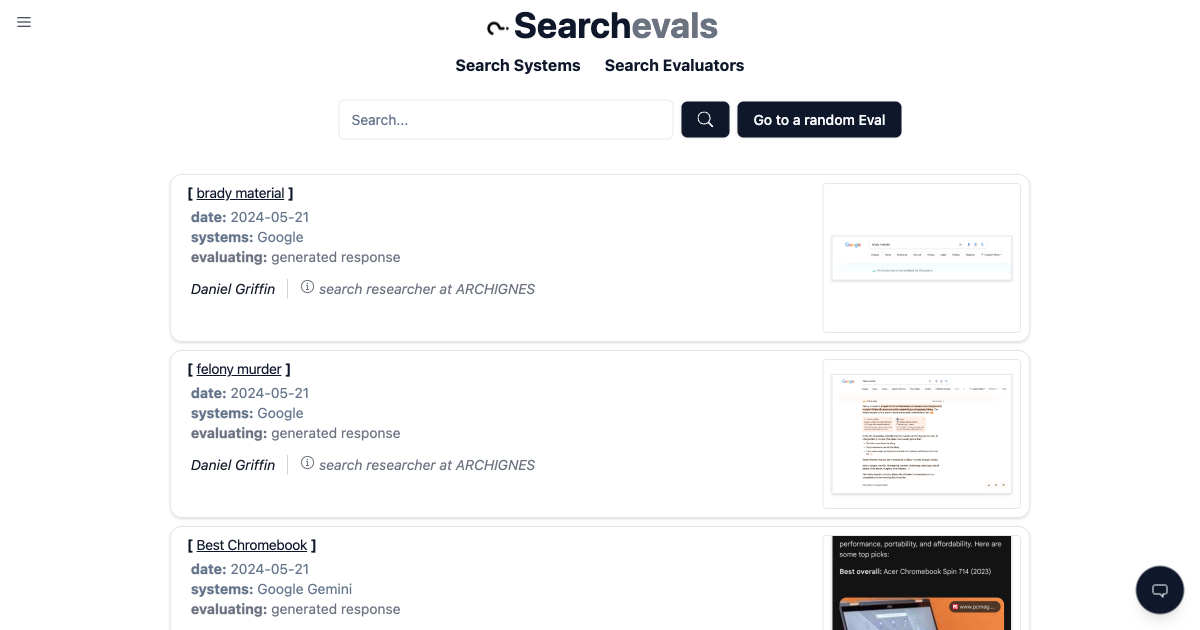
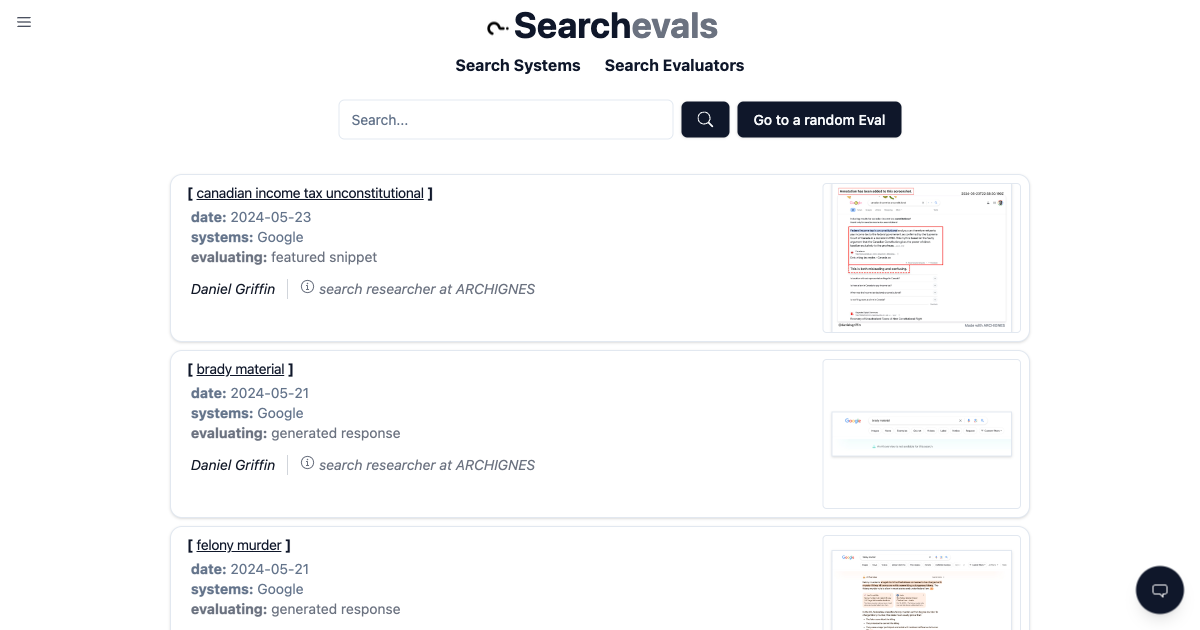
add eval, add updates to EvalComparisonChecks for multiple queries and human friendly time differences.

diff --git a/src/components/EvalComparisonChecks.tsx b/src/components/EvalComparisonChecks.tsx
@@ -6,7 +6,7 @@ import DiffMatchPatch from 'diff-match-patch';
 
 
 export const CheckTemporalDifference: React.FC<{ evalItemId: string; currentEvaluation: string }> = ({ evalItemId, currentEvaluation }) => {
-  const { data } = useContext(DataContext);
+  const { data, systems } = useContext(DataContext);
   const currentEvalItem = data ? data.find(evalItem => evalItem.id === currentEvaluation) : null;
   const followingEvalItem = data ? data.find(evalItem => evalItem.id === evalItemId) : null;
 
@@ -25,21 +25,56 @@ export const CheckTemporalDifference: React.FC<{ evalItemId: string; currentEval
       const currentTimestamp = extractTimestamp(currentStatusId);
       const followingTimestamp = extractTimestamp(followingStatusId);
       const timeDifference = currentTimestamp.getTime() - followingTimestamp.getTime();
-      const hoursDifference = Math.floor(timeDifference / (1000 * 60 * 60));
-      const minutesDifference = Math.floor((timeDifference % (1000 * 60 * 60)) / (1000 * 60));
-      const humanFriendlyDifference = `${hoursDifference} hours and ${minutesDifference} minutes`;
-      if (hoursDifference === 0) {
-        return (
-          <div className="flex justify-center w-full text-xs items-center text-info">
-            <InfoCircledIcon className="text-grey-500" />
-            <span className="ml-1 text-grey-500">Temporal difference: {minutesDifference} minutes</span>
-          </div>
-        );
+
+      const minutes = Math.floor(timeDifference / (1000 * 60));
+      const hours = Math.floor(minutes / 60);
+      const days = Math.floor(hours / 24);
+      const weeks = Math.floor(days / 7);
+      const months = Math.floor(days / 30);
+      const years = Math.floor(days / 365);
+
+      let humanFriendlyDifference = '';
+      if (years > 0) {
+        humanFriendlyDifference = `${years} year${years > 1 ? 's' : ''} and ${months % 12} month${months > 1 ? 's' : ''}`;
+      } else if (months > 0) {
+        humanFriendlyDifference = `${months} month${months > 1 ? 's' : ''} and ${weeks % 4} week${weeks > 1 ? 's' : ''}`;
+      } else if (weeks > 0) {
+        humanFriendlyDifference = `${weeks} week${weeks > 1 ? 's' : ''} and ${days % 7} day${days > 1 ? 's' : ''}`;
+      } else if (days > 0) {
+        humanFriendlyDifference = `${days} day${days > 1 ? 's' : ''} and ${hours % 24} hour${hours > 1 ? 's' : ''}`;
+      } else if (hours > 0) {
+        humanFriendlyDifference = `${hours} hour${hours > 1 ? 's' : ''} and ${minutes % 60} minute${minutes > 1 ? 's' : ''}`;
+      } else {
+        humanFriendlyDifference = `${minutes} minute${minutes > 1 ? 's' : ''}`;
       }
+
+      const exactDifference = `${years} year${years !== 1 ? 's' : ''}, ${months % 12} month${months % 12 !== 1 ? 's' : ''}, ${weeks % 4} week${weeks % 4 !== 1 ? 's' : ''}, ${days % 7} day${days % 7 !== 1 ? 's' : ''}, ${hours % 24} hour${hours % 24 !== 1 ? 's' : ''}, ${minutes % 60} minute${minutes % 60 !== 1 ? 's' : ''}`;
+
+      const combinedSystems = currentEvalItem.systems.map((system: any) => system.name).concat(followingEvalItem.systems.map((system: any) => system.name));
+      const randomSystem = combinedSystems[Math.floor(Math.random() * combinedSystems.length)];
+      const systemData = systems.find(
+        (system: any) => system.name === randomSystem
+      );
+      const systemSearchLink = systemData?.search_link || `https://www.google.com/search?q=`;
+      // create human friendly time stamps in dates and hours
+      let currentHumanFriendlyTimestamp = '';
+      let followingHumanFriendlyTimestamp = '';
+      if (weeks > 0) {
+        currentHumanFriendlyTimestamp = currentTimestamp.toLocaleDateString();
+        followingHumanFriendlyTimestamp = followingTimestamp.toLocaleDateString();
+      } else {
+        currentHumanFriendlyTimestamp = currentTimestamp.toLocaleString();
+        followingHumanFriendlyTimestamp = followingTimestamp.toLocaleString();
+      }
+      
+      const timeDifferenceQuery = `${systemSearchLink}what+is+the+time+difference+between+${followingHumanFriendlyTimestamp}+and+${currentHumanFriendlyTimestamp}`;
+
       return (
         <div className="flex justify-center w-full text-xs items-center text-info">
           <InfoCircledIcon className="text-grey-500" />
-          <span className="ml-1 text-grey-500">Temporal difference: {humanFriendlyDifference}</span>
+          <a href={timeDifferenceQuery} className="ml-1 text-grey-500" title={exactDifference}>
+            Temporal difference: {humanFriendlyDifference}
+          </a>
         </div>
       );
     }
@@ -56,6 +91,7 @@ export const CheckQueryConsistency: React.FC<{ evalItemId: string; currentEvalua
 
   const currentQuery = currentEvalItem.query;
   const followingQuery = followingEvalItem.query;
+  
 
   var dmp = new DiffMatchPatch();
   var diff = dmp.diff_main(currentQuery, followingQuery);
@@ -71,6 +107,40 @@ export const CheckQueryConsistency: React.FC<{ evalItemId: string; currentEvalua
   }
 
   if (currentQuery !== followingQuery) {
+    const collectQueries = (item: any): string[] => {
+      const queries: string[] = [];
+      const findQueries = (obj: any) => {
+        for (const key in obj) {
+          if (typeof obj[key] === 'object' && obj[key] !== null) {
+            findQueries(obj[key]);
+          } else if (key === 'query') {
+            queries.push(obj[key]);
+          }
+        }
+      };
+      findQueries(item);
+      return queries;
+    };
+
+    const followingQueries = collectQueries(followingEvalItem);
+    if (followingQueries.length > 1) {
+      const currentQueries = collectQueries(currentEvalItem);
+      if (followingQueries.some(fq => currentQueries.includes(fq))) {
+        return (
+          <>
+            <div className="flex justify-center text-gray-500 w-full text-xs items-center text-warning">
+              <InfoCircledIcon  />
+              <span className="mx-1">Note: There are multiple queries across these evaluations. These queries match: </span>
+            <span>
+              {followingQueries.filter(fq => currentQueries.includes(fq)).map(q => `[${q}]`).join(', ')}
+            </span>
+            </div>
+          </>
+        );
+      }
+    }
+    
+
     return (
       <>
       <div className="flex justify-center w-full text-xs items-center text-warning">

diff --git a/src/components/eval-card-elements/EvaluatedSystems.tsx b/src/components/eval-card-elements/EvaluatedSystems.tsx
@@ -1,16 +1,14 @@
 import React, { useContext } from "react";
 import DataContext from "../DataContext";
-import { System } from '../DataContext';
-import { EvalItem } from '@/src/types/evalItem';
 
-export const EvaluatedSystems: React.FC<{ evalItemID: string, systemIDs: string[], className?: string }> = ({ evalItemID, systemIDs, className }) => {
+export const EvaluatedSystems: React.FC<{ evalItemID: string, systemIDs: string[], query?: string, className?: string, skipHeading?: boolean }> = ({ evalItemID, systemIDs, query, className, skipHeading }) => {
     const { data, systems } = useContext(DataContext);
     const evalItem = data ? data.find(item => item.id === evalItemID) : null;
     let systemsEvaluatedSearchLinks;
     console.log(systemIDs);
     if (systemIDs && systemIDs.length > 0) {
-        const query = evalItem?.query ?? ''; // Ensure query is never undefined
-        const encodedQuery = encodeURIComponent(query);
+        const queryTarget = query || evalItem?.query || ''; // Ensure query is never undefined
+        const encodedQuery = encodeURIComponent(queryTarget);
         const filteredSystems = systems.filter(system => systemIDs.includes(system.id));
         systemsEvaluatedSearchLinks = filteredSystems.map((system: any, index: number) => {
             const systemLink = system.search_link; // Directly access the searchLink property of the system object
@@ -28,6 +26,9 @@ export const EvaluatedSystems: React.FC<{ evalItemID: string, systemIDs: string[
     }
     const textSizeClass = className ?? "text-sm";
     return (
-        <span className={`${textSizeClass}`}><span className="font-bold">systems:</span> {systemsEvaluatedSearchLinks}</span>
+        <span className={`${textSizeClass}`}>
+            {!skipHeading && <span className="font-bold">systems:</span>} 
+            {systemsEvaluatedSearchLinks}
+        </span>
     )
 }

diff --git a/src/components/EvalExtractCard.tsx b/src/components/EvalExtractCard.tsx
@@ -6,16 +6,19 @@ import {
     CardContent
 } from './ui/card';
 import ImageDisplay from './ImageDisplay';
+import { EvaluatedSystems } from './eval-card-elements/EvaluatedSystems';
 
-import { evalCardItem } from '@/src/types';
+import { evalCardItem, EvalItem } from '@/src/types';
 
 type EvalExtractCardProps = {
+    evalItem: EvalItem;
     evalCardItem: evalCardItem;
     evalQuery: string;
 };
 
 
-const EvalExtractCard: React.FC<EvalExtractCardProps> = ({ evalCardItem, evalQuery }) => {
+const EvalExtractCard: React.FC<EvalExtractCardProps> = ({ evalItem, evalCardItem, evalQuery }) => {
+    const evalItemId = evalItem.id
     let contentWithNewlines: string[] = []
     let skipBlockQuote = false;
     if (evalCardItem && evalCardItem.content) {
@@ -36,7 +39,10 @@ const EvalExtractCard: React.FC<EvalExtractCardProps> = ({ evalCardItem, evalQue
             <Card className="rounded-none mb-2">
                 <CardContent>
                     {evalCardItem.query && evalCardItem.query !== evalQuery && (
-                        <div className="text-red-500 text-center">Note: The query below does not exactly match the base query for this evaluation.</div>
+                        <div className="flex flex-col text-center text-xs">
+                            <span className="text-red-500">Note: The query below does not exactly match the base query for this evaluation.</span>
+                            <div> Search for this query on <EvaluatedSystems skipHeading={true} evalItemID={evalItemId} systemIDs={evalItem.systems} query={evalCardItem.query} /></div>
+                        </div>
                     )}
                     <figure className="max-w-screen-md">
                         {skipBlockQuote && (<br></br>)}

diff --git a/src/components/EvalCard.tsx b/src/components/EvalCard.tsx
@@ -283,14 +283,14 @@ const EvalCard: React.FC<EvalCardProps> = ({ evalItemId }) => {
                 </figcaption>)}
                 <ContentWarning evalItemID={evalItem.id} />
             {evalItem.context && (
-              <EvalExtractCard evalCardItem={{id: "context", content: evalItem.context}} evalQuery={evalItem.query} />
+              <EvalExtractCard evalItem={evalItem} evalCardItem={{id: "context", content: evalItem.context}} evalQuery={evalItem.query} />
             )}
           {evalItem.eval_parts ? (
             evalItem.eval_parts.map((part, index) => (
-              <EvalExtractCard key={index} evalCardItem={part} evalQuery={evalItem.query} />
+              <EvalExtractCard key={index} evalItem={evalItem} evalCardItem={part} evalQuery={evalItem.query} />
             ))
           ) : (
-              <EvalExtractCard evalCardItem={evalItem} evalQuery={evalItem.query} />
+              <EvalExtractCard evalItem={evalItem} evalCardItem={evalItem} evalQuery={evalItem.query} />
           )}
         </CardContent>
           <Resources evalItemID={evalItemId} />

diff --git a/src/components/Footer.tsx b/src/components/Footer.tsx
@@ -2,7 +2,7 @@ import { GitHubLogoIcon, TwitterLogoIcon, LinkedInLogoIcon } from '@radix-ui/rea
 import { Button } from "./ui/button";
 import { Input } from "./ui/input";
 
-const lastUpdated = "2024-05-23T21:09:14.323Z";
+const lastUpdated = "2024-05-23T23:54:05.273Z";
 
 const Footer: React.FC = () => {
   return (
